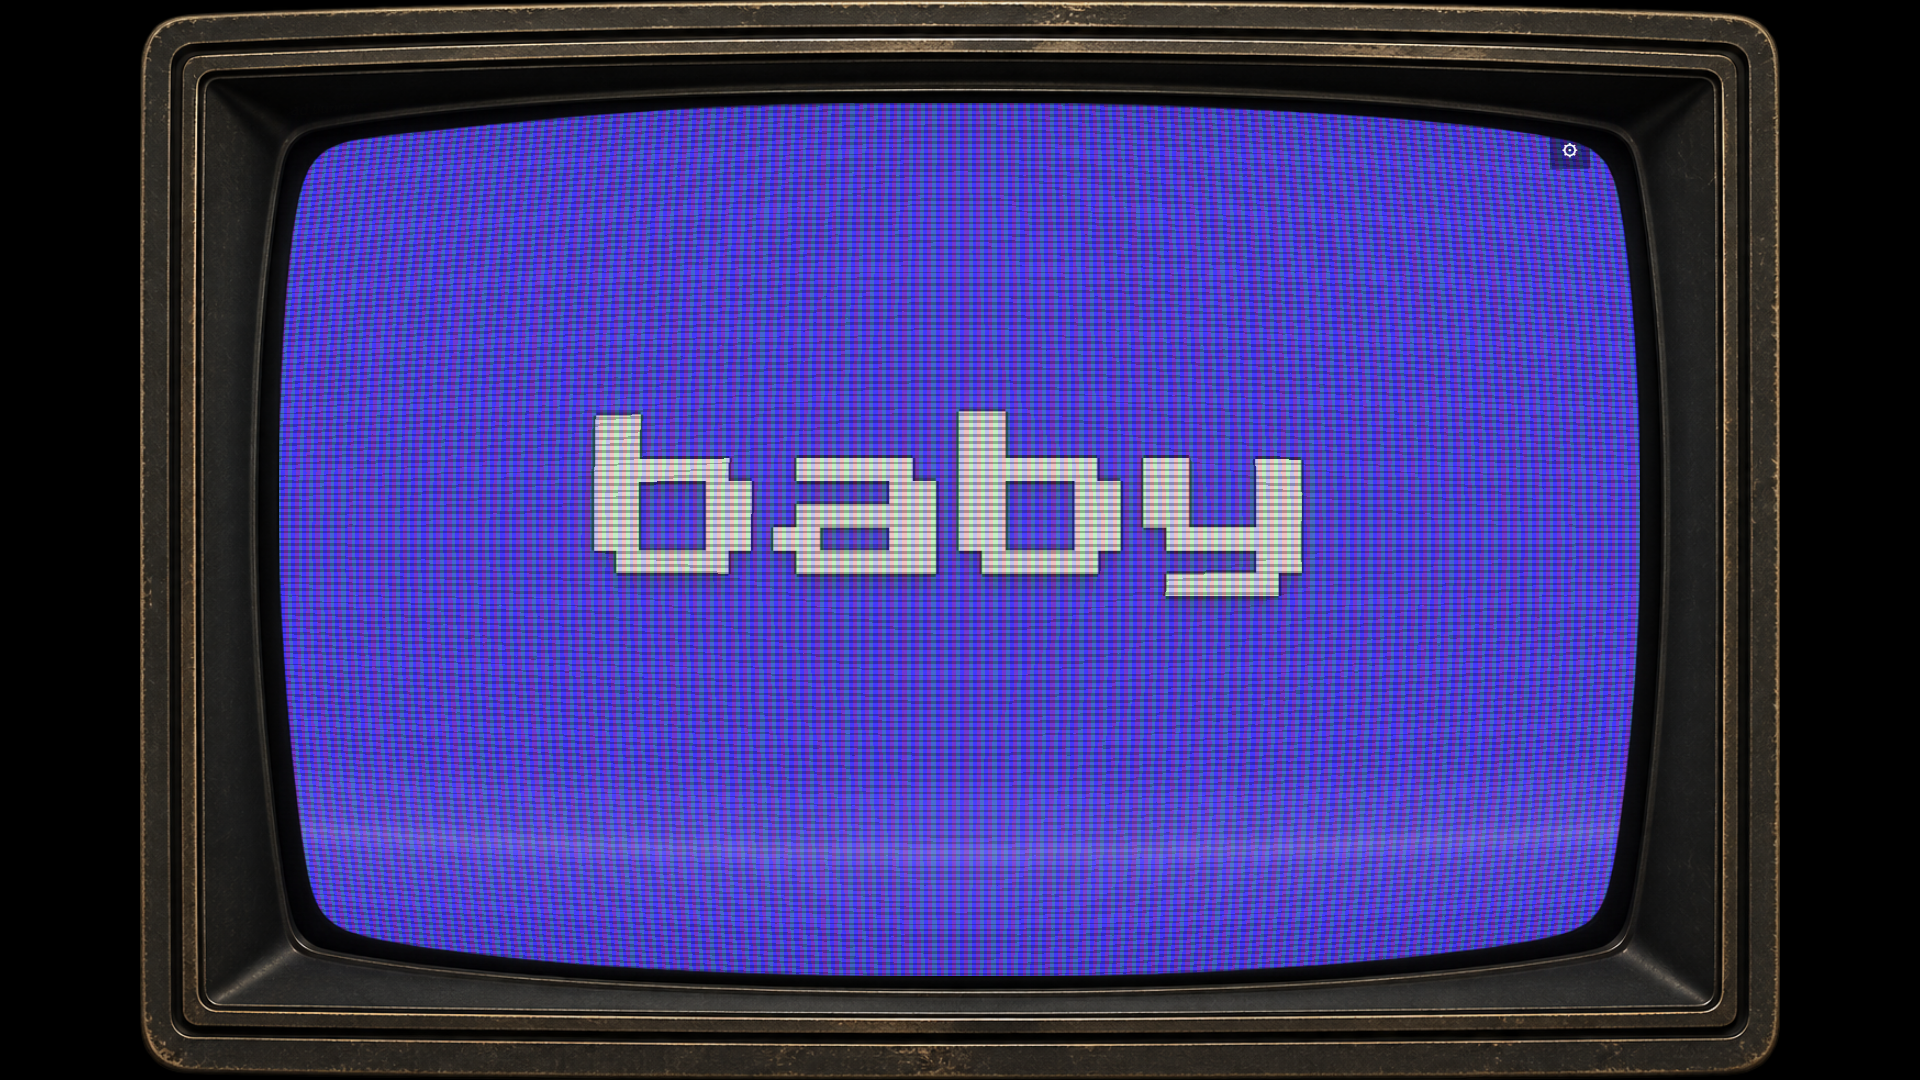
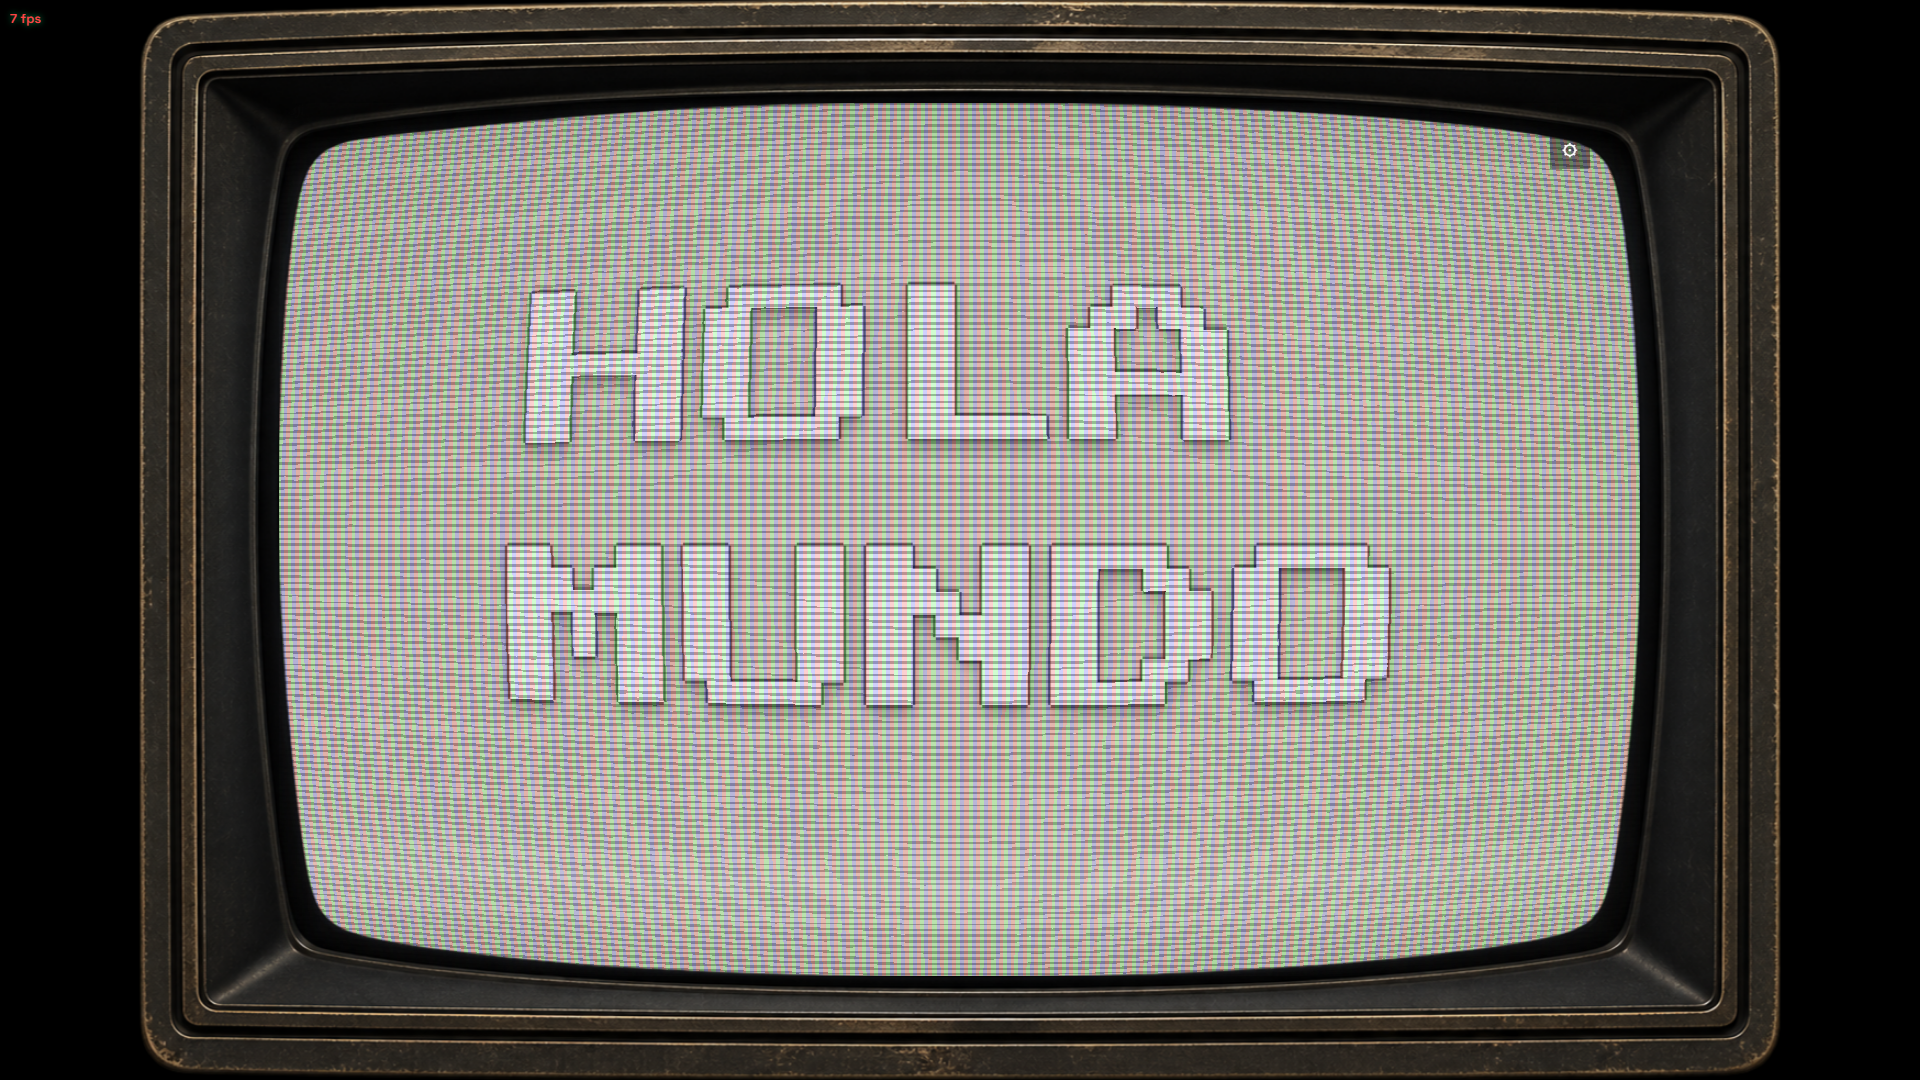
refactor: 2nd code review pass — save throttle, cfg sanitization, try/catch loops, fpsCounter out of lens, bindRangeReload simplification
- save() now throttled (500ms) — sliders no longer flood localStorage on every drag
- cfg loaded from localStorage now sanitized: wrong types reset to defaults (NaN prevention)
- _lensReady variable eliminated (was redundant with cache check)
- _lensReady=false in lensRng handler removed (applyLens already does cache check)
- frame(), fluidLoop(), _fxLoop() now wrapped in try/catch: a single error no longer kills the loop
- bindRangeReload signature unified: takes a callback (consistent with bindRange family)
- IIFE that nuked petlphraseRng oninput removed (no longer needed)
- resetBtn now clears _presetAppliedFor + _specialTrack (prevents stale preset state)
- applyPreset now also calls applyTheme (theme in saved preset was ignored)
- fpsCounter moved OUT of lensTarget div — was being deformed by feDisplacementMap
- bug found and fixed: buildLens missing 'let svg =' declaration caused ReferenceError

Validated: node --check OK, 0.0px offset in 3 viewports, app renders normally

diff --git a/index.html b/index.html
@@ -313,8 +313,8 @@
   <div id="source">LETRAS: LRCLIB + SPOTIFY + LYRICS.OVH · RITMO: AUDIO ANALYSIS</div>
   <div id="queueTicker"><span id="queueLabel">A CONTINUACIÓN</span><span id="queueText"></span></div>
   <div id="syncLed" class="offline" title="Estado de sincronización"><i></i><span id="syncText">OFFLINE</span></div>
-  <div id="fpsCounter" style="position:fixed;left:10px;top:10px;z-index:9999;font:bold 13px 'SpaceGrotesk',monospace;color:#00ff88;text-shadow:0 0 6px rgba(0,255,136,.6);pointer-events:none;display:none">-- fps</div>
- </div><!-- /lensTarget -->
+  </div><!-- /lensTarget -->
+ <div id="fpsCounter" style="position:fixed;left:10px;top:10px;z-index:9999;font:bold 13px 'SpaceGrotesk',monospace;color:#00ff88;text-shadow:0 0 6px rgba(0,255,136,.6);pointer-events:none;display:none">-- fps</div>
 
   <button id="gear" title="Ajustes">⚙</button>
 
@@ -516,7 +516,25 @@ const CFG_DEFAULTS = {
 const PRESET_KEYS = Object.keys(CFG_DEFAULTS).filter(k =>
   !["moodOverride","_specialTrack"].includes(k));   // el modo se decide por canción; estado interno no
 const cfg = Object.assign({}, CFG_DEFAULTS);
-try { Object.assign(cfg, JSON.parse(localStorage.getItem("fv_cfg") || "{}")); } catch (e) {}
+try {
+  const stored = JSON.parse(localStorage.getItem("fv_cfg") || "{}");
+  // sanear: si localStorage tiene tipos incorrectos (corrupción, version previa, hack),
+  // resetear el campo al default en lugar de aceptar basura.
+  for (const k of Object.keys(stored)) {
+    const def = CFG_DEFAULTS[k];
+    if (def === undefined) continue;
+    const v = stored[k];
+    if (typeof def === "number") {
+      cfg[k] = (typeof v === "number" && Number.isFinite(v)) ? v : def;
+    } else if (typeof def === "boolean") {
+      cfg[k] = !!v;
+    } else if (Array.isArray(def)) {
+      cfg[k] = Array.isArray(v) ? v : def;
+    } else {
+      cfg[k] = (typeof v === typeof def) ? v : def;
+    }
+  }
+} catch (e) { /* JSON corrupto → defaults */ }
 // La paleta debe reaccionar al beat real, no a barras antiguas guardadas.
 cfg.timing = "beats";
 
@@ -528,31 +546,19 @@ function bindRange(id, key, valId, fmt) {
   el.oninput = e => { cfg[key] = +e.target.value; $(valId).textContent = fmt ? fmt(cfg[key]) : cfg[key]; save(); applyCfg(); };
   if (valId) $(valId).textContent = fmt ? fmt(cfg[key]) : cfg[key];
 }
-// bindRange que además fuerza recarga del estado del server (para "palabras por frase")
-function bindRangeReload(id, key, valId, fmt) {
+// Versión extendida de bindRange: hace reload del /api/state al final del debounce.
+// Usado por sliders que cambian el reparto de frases (phrase).
+function bindRangeReload(id, key, valId, fmt, after) {
   let _t = null;
   const el = $(id);
   el.value = cfg[key];
   el.oninput = e => {
     cfg[key] = +e.target.value;
-    $(valId).textContent = fmt ? fmt(cfg[key]) : cfg[key];
+    if (valId) $(valId).textContent = fmt ? fmt(cfg[key]) : cfg[key];
     save();
-    // re-repartir las frases YA con el nuevo tamaño (sin esperar al server):
-    // invalidar punteros para que el próximo tick recargue el estado completo
     clearTimeout(_t);
     _t = setTimeout(async () => {
-      try {
-        const r = await fetch("/api/state?mw=" + cfg.phrase + "&force=1", { cache: "no-store" });
-        const ns = await r.json();
-        if (ns && ns.track) {
-          S = ns;
-          lineIdx = -1; lastShown = null; setLyric._last = 0;   // fuerza re-render completo
-          // repintar la línea actual al instante con el nuevo reparto
-          const L0 = S.lyrics || [];
-          while (lineIdx + 1 < L0.length && L0[lineIdx + 1].t <= pos) lineIdx++;
-          if (lineIdx >= 0 && lineIdx < L0.length) { lastShown = L0[lineIdx].text; setLyric(lastShown, L0[lineIdx].back); }
-        }
-      } catch (err) {}
+      try { await after(); } catch (err) {}
     }, 350);
   };
   if (valId) $(valId).textContent = fmt ? fmt(cfg[key]) : cfg[key];
@@ -572,16 +578,28 @@ bindRange("fsRange", "fs", "fsVal");
 (function(){ const el=$("fsRange"); const prev=el.oninput;
   el.oninput = e => { prev(e); if (lastShown) setLyric(lastShown, (S.lyrics||[])[lineIdx] ? (S.lyrics[lineIdx].back) : null); }; })();
 // phrase usa bindRangeReload: necesita recargar /api/state para repartir las frases
-(function(){ const el=$("phraseRng"); el.oninput = null; })();
-bindRangeReload("phraseRng", "phrase", "phraseVal", v => v + " palabras");
+bindRangeReload("phraseRng", "phrase", "phraseVal", v => v + " palabras", async () => {
+  const r = await fetch("/api/state?mw=" + cfg.phrase + "&force=1", { cache: "no-store" });
+  const ns = await r.json();
+  if (ns && ns.track) {
+    S = ns;
+    lineIdx = -1; lastShown = null; setLyric._last = 0;   // fuerza re-render completo
+    const L0 = S.lyrics || [];
+    while (lineIdx + 1 < L0.length && L0[lineIdx + 1].t <= pos) lineIdx++;
+    if (lineIdx >= 0 && lineIdx < L0.length) {
+      lastShown = L0[lineIdx].text;
+      setLyric(lastShown, L0[lineIdx].back);
+    }
+  }
+});
 bindRange("wordSpRng", "wordSpacing", "wordSpVal", v => v.toFixed(1) + "×");
 // ESPACIO entre palabras en vivo: repintar la línea actual al mover el slider
 (function(){ const el=$("wordSpRng"); const prev=el.oninput;
   el.oninput = e => { prev(e); if (lastShown) setLyric(lastShown, (S.lyrics||[])[lineIdx] ? (S.lyrics[lineIdx].back) : null); }; })();
 bindRange("lensRng", "lensStrength", "lensVal");
-// el slider de lente reconstruye el mapa con la nueva amplitud
+// el slider de lente reconstruye el mapa solo si la amplitud cambió
 (function(){ const el=$("lensRng"); const prev=el.oninput;
-  el.oninput = e => { prev(e); _lensReady = false; applyLens(); }; })();
+  el.oninput = e => { prev(e); applyLens(); }; })();
 bindRange("scanRng", "scan", "scanVal");
 bindRange("maskRng", "mask", "maskVal");
 bindRange("vigRng", "vig", "vigVal");
@@ -618,6 +636,8 @@ $("themeSel").addEventListener("change", () => {
 $("testChan").onclick = playChannel;
 $("resetBtn").onclick = () => {
   Object.assign(cfg, CFG_DEFAULTS);
+  _presetAppliedFor = null; _presetWasActive = false;
+  cfg._specialTrack = null;
   save(); applyCfg(); syncAllControls();
   $("testChan").textContent = "✓ Configuración restablecida";
   setTimeout(() => { $("testChan").textContent = "Probar transición"; }, 1500);
@@ -652,6 +672,8 @@ function applyPreset(p, label) {
   if (cfg.theme && THEMES[cfg.theme]) applyTheme(cfg.theme);
   save(); applyCfg(); syncAllControls();
   showToast("💾 PRESET: " + label);
+  // NUNCA limpiar coverPalette aquí: applyCfg → renderState gestiona la paleta
+  // y extractCoverPalette la asignará de nuevo si el preset no fija customPal.
 }
 /* Restaurar la config habitual del usuario (sin presets): recarga fv_cfg */
 function restoreBaseConfig() {
@@ -906,10 +928,20 @@ function syncCrtControls() {
   });
 }
 
+let _saveTimer = null;
+let _savePending = false;
 function save() {
-  // estado interno: NO persistir
-  const { _specialTrack, ...persist } = cfg;
-  localStorage.setItem("fv_cfg", JSON.stringify(persist));
+  // throttle: muchos cambios seguidos (sliders) → escribir a localStorage a lo sumo
+  // cada 500ms, agrupando todos los cambios intermedios.
+  _savePending = true;
+  if (_saveTimer) return;
+  _saveTimer = setTimeout(() => {
+    _saveTimer = null;
+    if (!_savePending) return;
+    _savePending = false;
+    const { _specialTrack, ...persist } = cfg;
+    try { localStorage.setItem("fv_cfg", JSON.stringify(persist)); } catch (e) {}
+  }, 500);
 }
 function applyCfg() {
   const r = document.documentElement.style;
@@ -1050,6 +1082,7 @@ function explodeDrop() {
   if (!_fxRAF) _fxLoop();
 }
 function _fxLoop() {
+  try {
   _fxRAF = requestAnimationFrame(_fxLoop);
   const cv = $("fxCanvas");
   const ctx = cv.getContext("2d");
@@ -1065,6 +1098,7 @@ function _fxLoop() {
     ctx.fillRect(p.x, p.y, p.size, p.size);
   }
   ctx.globalAlpha = 1;
+  } catch (e) { console.error("_fxLoop error", e); }
 }
 
 /* ---------- 📱 QR GIGANTE (tecla Q) ---------- */
@@ -1200,7 +1234,6 @@ function applyEggFont() {
    Mapa de desplazamiento generado en canvas e inyectado en un <feImage> inline.
    Deforma los pixeles respecto al CENTRO DE LA PANTALLA: funciona igual con
    1 o 5 líneas. Técnica verificada en Chrome desktop y móvil. */
-let _lensReady = false;
 let _lensBuiltFor = null;
 let _lensBuiltAmp = null;
 
@@ -1247,7 +1280,6 @@ function buildLens() {
   const fi = svg.querySelector("feImage");
   fi.setAttribute("href", uri);
   fi.setAttributeNS("http://www.w3.org/1999/xlink", "xlink:href", uri);
-  _lensReady = true;
 }
 
 function applyLens() {
@@ -1512,6 +1544,7 @@ function nowPos() {
 }
 
 function frame() {
+  try {
   // Sin cap de FPS: requestAnimationFrame va a la velocidad máxima del hardware
   const nowT = performance.now();
 
@@ -1661,6 +1694,11 @@ function frame() {
     }
   }
   frame._raf = requestAnimationFrame(frame);
+  } catch (e) {
+    // un error en un frame no debe matar el bucle entero
+    console.error("frame error", e);
+    frame._raf = requestAnimationFrame(frame);
+  }
 }
 
 /* ---------- color + ritmo ---------- */
@@ -1801,6 +1839,7 @@ function fluidPulse() {          // llamado en cada beat del frame()
 }
 
 function fluidLoop() {
+  try {
   fluidRAF = requestAnimationFrame(fluidLoop);
   const nowT = performance.now();
   const cv = $("fluidCanvas");
@@ -1868,6 +1907,7 @@ function fluidLoop() {
     fluidLoop._fc = performance.now();
     setFluidContrast();
   }
+  } catch (e) { console.error("fluidLoop error", e); }
 }
 
 /* Volver al modo fiesta: alias conservado por compatibilidad con código que ya lo usa */
